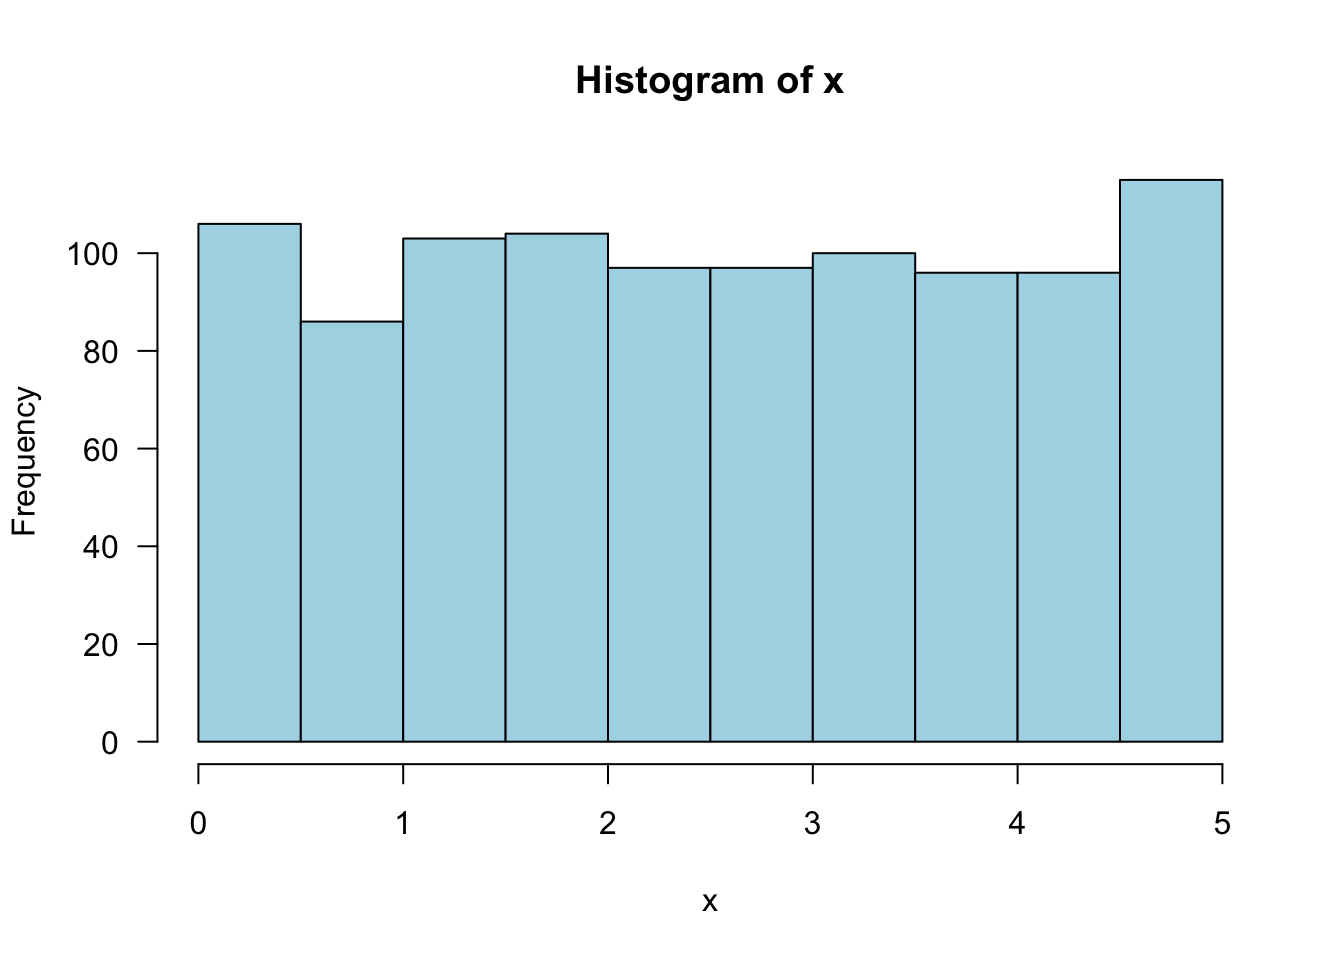
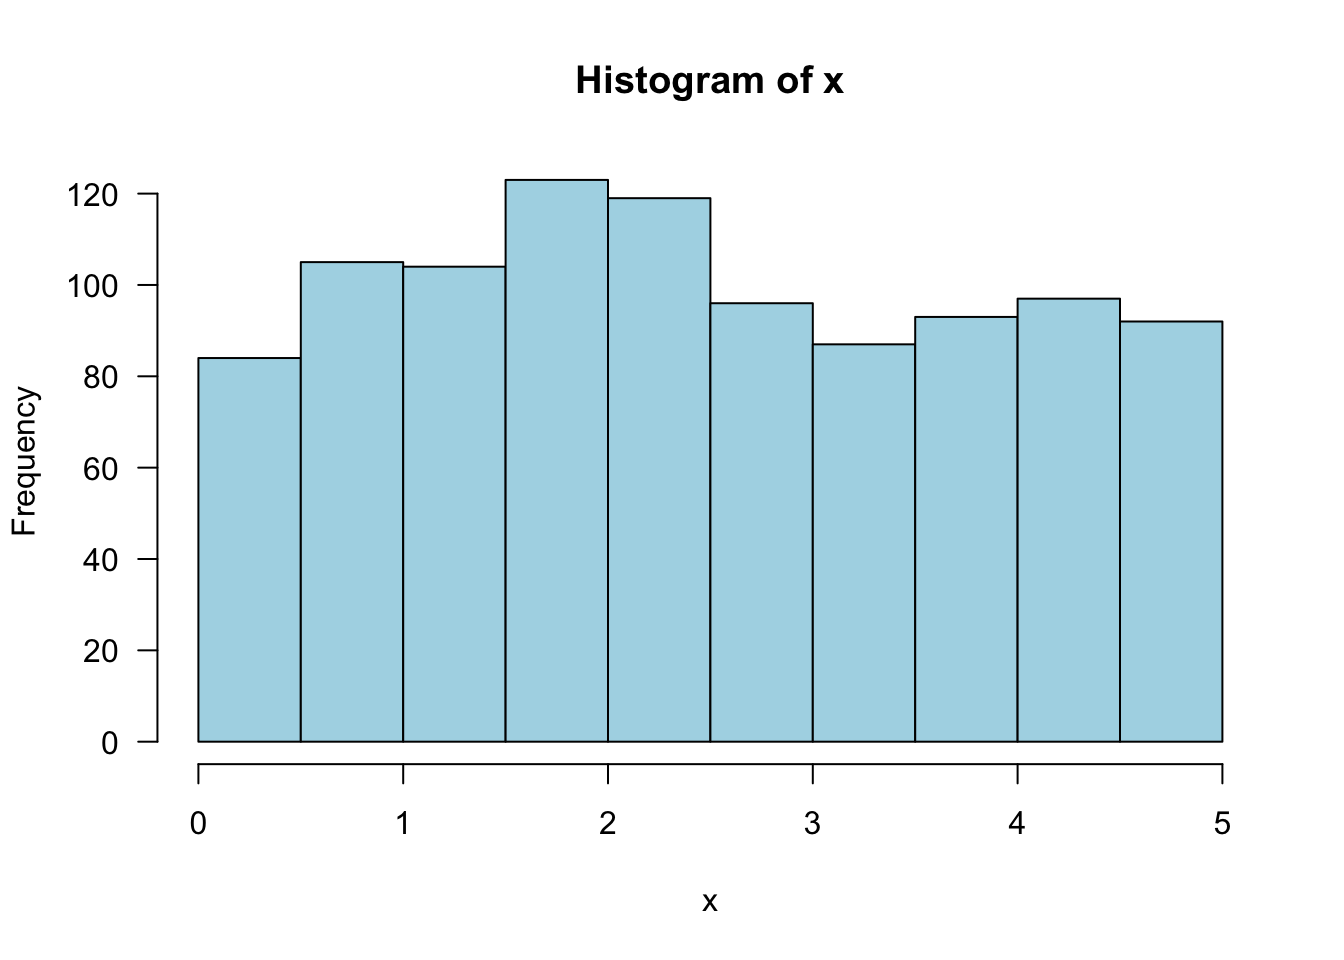
jtr13 published a site update

diff --git a/ch-4-continuous-random-variables-and-probability-distributions.html b/ch-4-continuous-random-variables-and-probability-distributions.html
@@ -24,7 +24,7 @@
 <meta name="author" content="Joyce Robbins" />
 
 
-<meta name="date" content="2021-01-16" />
+<meta name="date" content="2021-02-14" />
 
   <meta name="viewport" content="width=device-width, initial-scale=1" />
   <meta name="apple-mobile-web-app-capable" content="yes" />
@@ -274,11 +274,11 @@ code span.wa { color: #60a0b0; font-weight: bold; font-style: italic; } /* Warni
 <p>Randomly choose one number from the distribution:</p>
 <p><span class="math inline">\(f(x) = .2\)</span> for <span class="math inline">\(0 \leq x \leq 5\)</span>, 0 otherwise.</p>
 <div class="sourceCode" id="cb149"><pre class="sourceCode r"><code class="sourceCode r"><span id="cb149-1"><a href="ch-4-continuous-random-variables-and-probability-distributions.html#cb149-1"></a><span class="kw">runif</span>(<span class="dt">n =</span> <span class="dv">1</span>, <span class="dt">min =</span> <span class="dv">0</span>, <span class="dt">max =</span> <span class="dv">5</span>)</span></code></pre></div>
-<pre><code>## [1] 3.971345</code></pre>
+<pre><code>## [1] 3.947363</code></pre>
 <p>Take the average of 1000 picks:</p>
 <div class="sourceCode" id="cb151"><pre class="sourceCode r"><code class="sourceCode r"><span id="cb151-1"><a href="ch-4-continuous-random-variables-and-probability-distributions.html#cb151-1"></a>x &lt;-<span class="st"> </span><span class="kw">runif</span>(<span class="dt">n =</span> <span class="dv">1000</span>, <span class="dt">min =</span> <span class="dv">0</span>, <span class="dt">max =</span> <span class="dv">5</span>)</span>
 <span id="cb151-2"><a href="ch-4-continuous-random-variables-and-probability-distributions.html#cb151-2"></a><span class="kw">mean</span>(x)</span></code></pre></div>
-<pre><code>## [1] 2.52951</code></pre>
+<pre><code>## [1] 2.454794</code></pre>
 <p>Draw a histogram of the 1000 picks:</p>
 <div class="sourceCode" id="cb153"><pre class="sourceCode r"><code class="sourceCode r"><span id="cb153-1"><a href="ch-4-continuous-random-variables-and-probability-distributions.html#cb153-1"></a><span class="kw">hist</span>(x, <span class="dt">las =</span> <span class="dv">1</span>, <span class="dt">col =</span> <span class="st">&quot;lightblue&quot;</span>)</span></code></pre></div>
 <p><img src="STAT1201-resource_files/figure-html/unnamed-chunk-41-1.png" width="672" /></p>

diff --git a/ch-3-discrete-distributions.html b/ch-3-discrete-distributions.html
@@ -24,7 +24,7 @@
 <meta name="author" content="Joyce Robbins" />
 
 
-<meta name="date" content="2021-01-16" />
+<meta name="date" content="2021-02-14" />
 
   <meta name="viewport" content="width=device-width, initial-scale=1" />
   <meta name="apple-mobile-web-app-capable" content="yes" />
@@ -264,7 +264,8 @@ code span.wa { color: #60a0b0; font-weight: bold; font-style: italic; } /* Warni
             <section class="normal" id="section-">
 <div id="ch.-3-discrete-distributions" class="section level1 unnumbered">
 <h1>Ch. 3 Discrete Distributions</h1>
-<p>Sections covered: 3.1 - 3.5</p>
+<p>Sections covered: 3.1 - 3.6</p>
+<p>Skip: 3.6 “The Poisson Distribution as a Limit” (pp. 132-33) and “The Poisson Process” (pp. 134-135)</p>
 <div id="expected-value" class="section level2 unnumbered">
 <h2>3.3 Expected value</h2>
 <div class="sourceCode" id="cb73"><pre class="sourceCode r"><code class="sourceCode r"><span id="cb73-1"><a href="ch-3-discrete-distributions.html#cb73-1"></a>x &lt;-<span class="st"> </span><span class="dv">1</span><span class="op">:</span><span class="dv">5</span></span>

diff --git a/index.html b/index.html
@@ -24,7 +24,7 @@
 <meta name="author" content="Joyce Robbins" />
 
 
-<meta name="date" content="2021-01-16" />
+<meta name="date" content="2021-02-14" />
 
   <meta name="viewport" content="width=device-width, initial-scale=1" />
   <meta name="apple-mobile-web-app-capable" content="yes" />
@@ -265,7 +265,7 @@ code span.wa { color: #60a0b0; font-weight: bold; font-style: italic; } /* Warni
 <div id="header">
 <h1 class="title">Stat 1201 Resources</h1>
 <p class="author"><em>Joyce Robbins</em></p>
-<p class="date"><em>2021-01-16</em></p>
+<p class="date"><em>2021-02-14</em></p>
 </div>
 <div id="introduction" class="section level1 unnumbered">
 <h1>Introduction</h1>

diff --git a/ch-1-descriptive-statistics.html b/ch-1-descriptive-statistics.html
@@ -24,7 +24,7 @@
 <meta name="author" content="Joyce Robbins" />
 
 
-<meta name="date" content="2021-01-16" />
+<meta name="date" content="2021-02-14" />
 
   <meta name="viewport" content="width=device-width, initial-scale=1" />
   <meta name="apple-mobile-web-app-capable" content="yes" />

diff --git a/ch-12-linear-regression.html b/ch-12-linear-regression.html
@@ -24,7 +24,7 @@
 <meta name="author" content="Joyce Robbins" />
 
 
-<meta name="date" content="2021-01-16" />
+<meta name="date" content="2021-02-14" />
 
   <meta name="viewport" content="width=device-width, initial-scale=1" />
   <meta name="apple-mobile-web-app-capable" content="yes" />

diff --git a/ch-2-conditional-probability.html b/ch-2-conditional-probability.html
@@ -24,7 +24,7 @@
 <meta name="author" content="Joyce Robbins" />
 
 
-<meta name="date" content="2021-01-16" />
+<meta name="date" content="2021-02-14" />
 
   <meta name="viewport" content="width=device-width, initial-scale=1" />
   <meta name="apple-mobile-web-app-capable" content="yes" />

diff --git a/ch-2-probability.html b/ch-2-probability.html
@@ -24,7 +24,7 @@
 <meta name="author" content="Joyce Robbins" />
 
 
-<meta name="date" content="2021-01-16" />
+<meta name="date" content="2021-02-14" />
 
   <meta name="viewport" content="width=device-width, initial-scale=1" />
   <meta name="apple-mobile-web-app-capable" content="yes" />

diff --git a/ch-5-joint-probability.html b/ch-5-joint-probability.html
@@ -24,7 +24,7 @@
 <meta name="author" content="Joyce Robbins" />
 
 
-<meta name="date" content="2021-01-16" />
+<meta name="date" content="2021-02-14" />
 
   <meta name="viewport" content="width=device-width, initial-scale=1" />
   <meta name="apple-mobile-web-app-capable" content="yes" />

diff --git a/ch-5-random-samples.html b/ch-5-random-samples.html
@@ -24,7 +24,7 @@
 <meta name="author" content="Joyce Robbins" />
 
 
-<meta name="date" content="2021-01-16" />
+<meta name="date" content="2021-02-14" />
 
   <meta name="viewport" content="width=device-width, initial-scale=1" />
   <meta name="apple-mobile-web-app-capable" content="yes" />

diff --git a/ch-6-point-estimation.html b/ch-6-point-estimation.html
@@ -24,7 +24,7 @@
 <meta name="author" content="Joyce Robbins" />
 
 
-<meta name="date" content="2021-01-16" />
+<meta name="date" content="2021-02-14" />
 
   <meta name="viewport" content="width=device-width, initial-scale=1" />
   <meta name="apple-mobile-web-app-capable" content="yes" />

diff --git a/ch-7-statistical-intervals-based-on-a-single-sample.html b/ch-7-statistical-intervals-based-on-a-single-sample.html
@@ -24,7 +24,7 @@
 <meta name="author" content="Joyce Robbins" />
 
 
-<meta name="date" content="2021-01-16" />
+<meta name="date" content="2021-02-14" />
 
   <meta name="viewport" content="width=device-width, initial-scale=1" />
   <meta name="apple-mobile-web-app-capable" content="yes" />

diff --git a/ch-8-tests-of-hypotheses-based-on-a-single-sample.html b/ch-8-tests-of-hypotheses-based-on-a-single-sample.html
@@ -24,7 +24,7 @@
 <meta name="author" content="Joyce Robbins" />
 
 
-<meta name="date" content="2021-01-16" />
+<meta name="date" content="2021-02-14" />
 
   <meta name="viewport" content="width=device-width, initial-scale=1" />
   <meta name="apple-mobile-web-app-capable" content="yes" />
